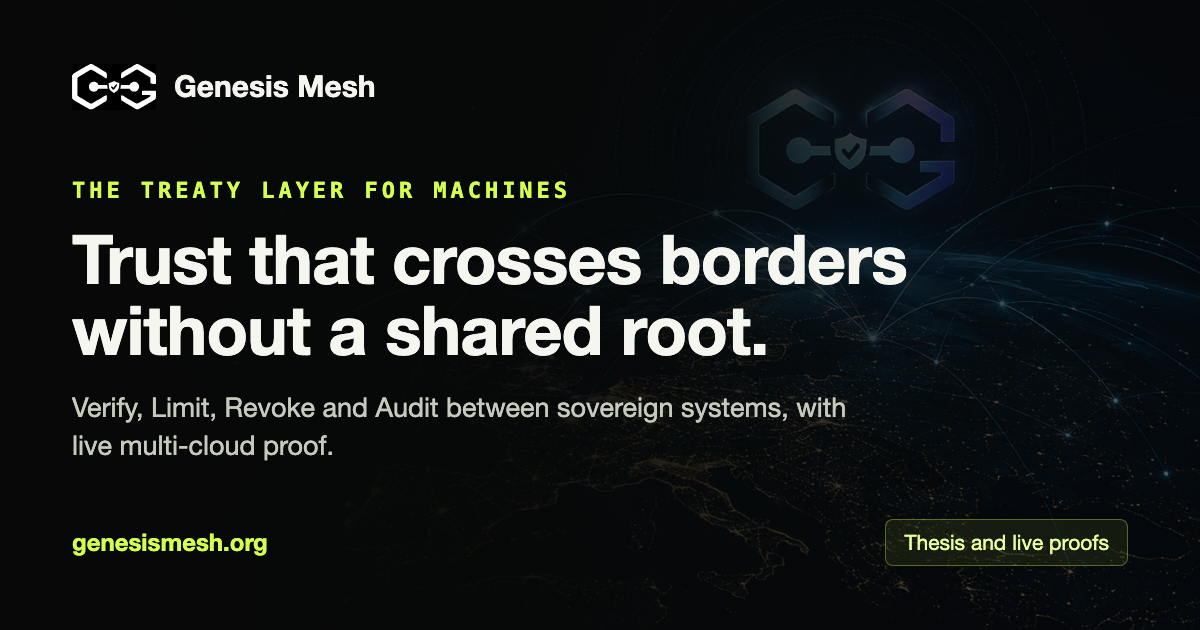
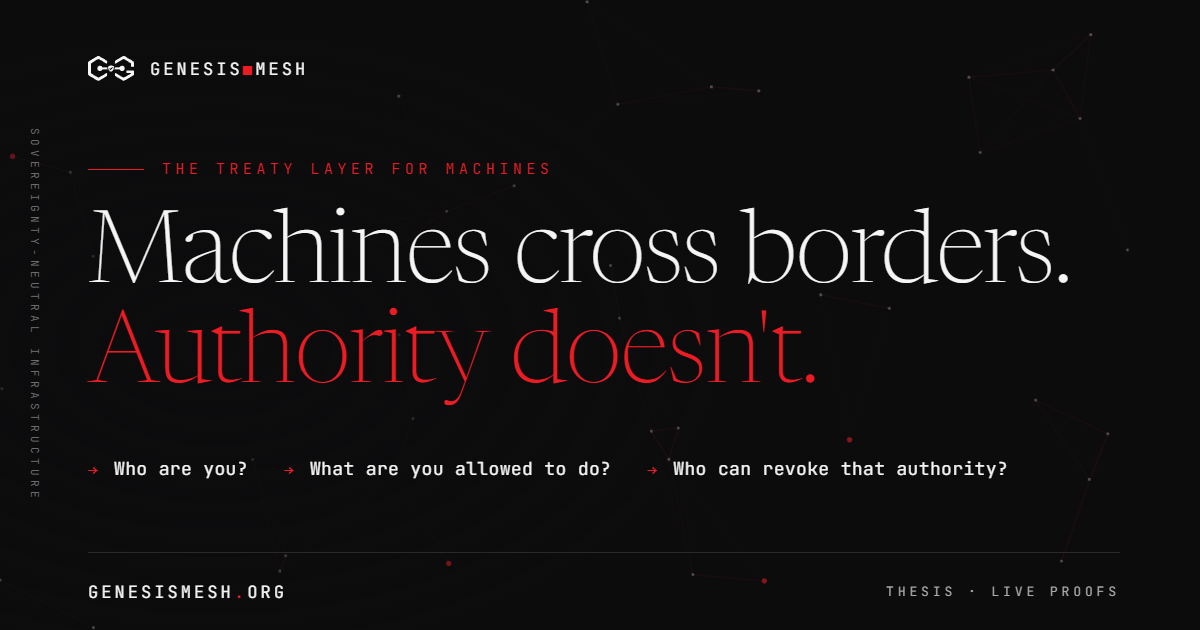
Restyle the social card to match the apex
The card reused the hub's lime template. It now uses the apex's own look:
Newsreader display type with the red second line, JetBrains Mono kicker,
questions and wordmark, and a still frame of the hero's mesh canvas.

The card URL carries a version query so platforms that cache images by
URL fetch the new one.

diff --git a/src/app/[locale]/layout.tsx b/src/app/[locale]/layout.tsx
@@ -8,6 +8,9 @@ import '../../globals.css';
 /** Unknown locales 404 instead of being rendered on demand. */
 export const dynamicParams = false;
 
+/** Bump `v` when the card changes, so platforms that cache by URL fetch it again. */
+const SOCIAL_CARD = '/assets/social-card.png?v=2';
+
 export function generateStaticParams() {
   return locales.map((locale) => ({ locale }));
 }
@@ -60,7 +63,7 @@ export async function generateMetadata({
       alternateLocale: locales.filter((c) => c !== locale).map((c) => OG_LOCALES[c]),
       images: [
         {
-          url: '/assets/social-card.png',
+          url: SOCIAL_CARD,
           width: 1200,
           height: 630,
           alt: 'Genesis Mesh, the Treaty Layer for Machines',
@@ -71,7 +74,7 @@ export async function generateMetadata({
       card: 'summary_large_image',
       title: t('title'),
       description: t('description'),
-      images: ['/assets/social-card.png'],
+      images: [SOCIAL_CARD],
     },
     robots: {
       index: true,
